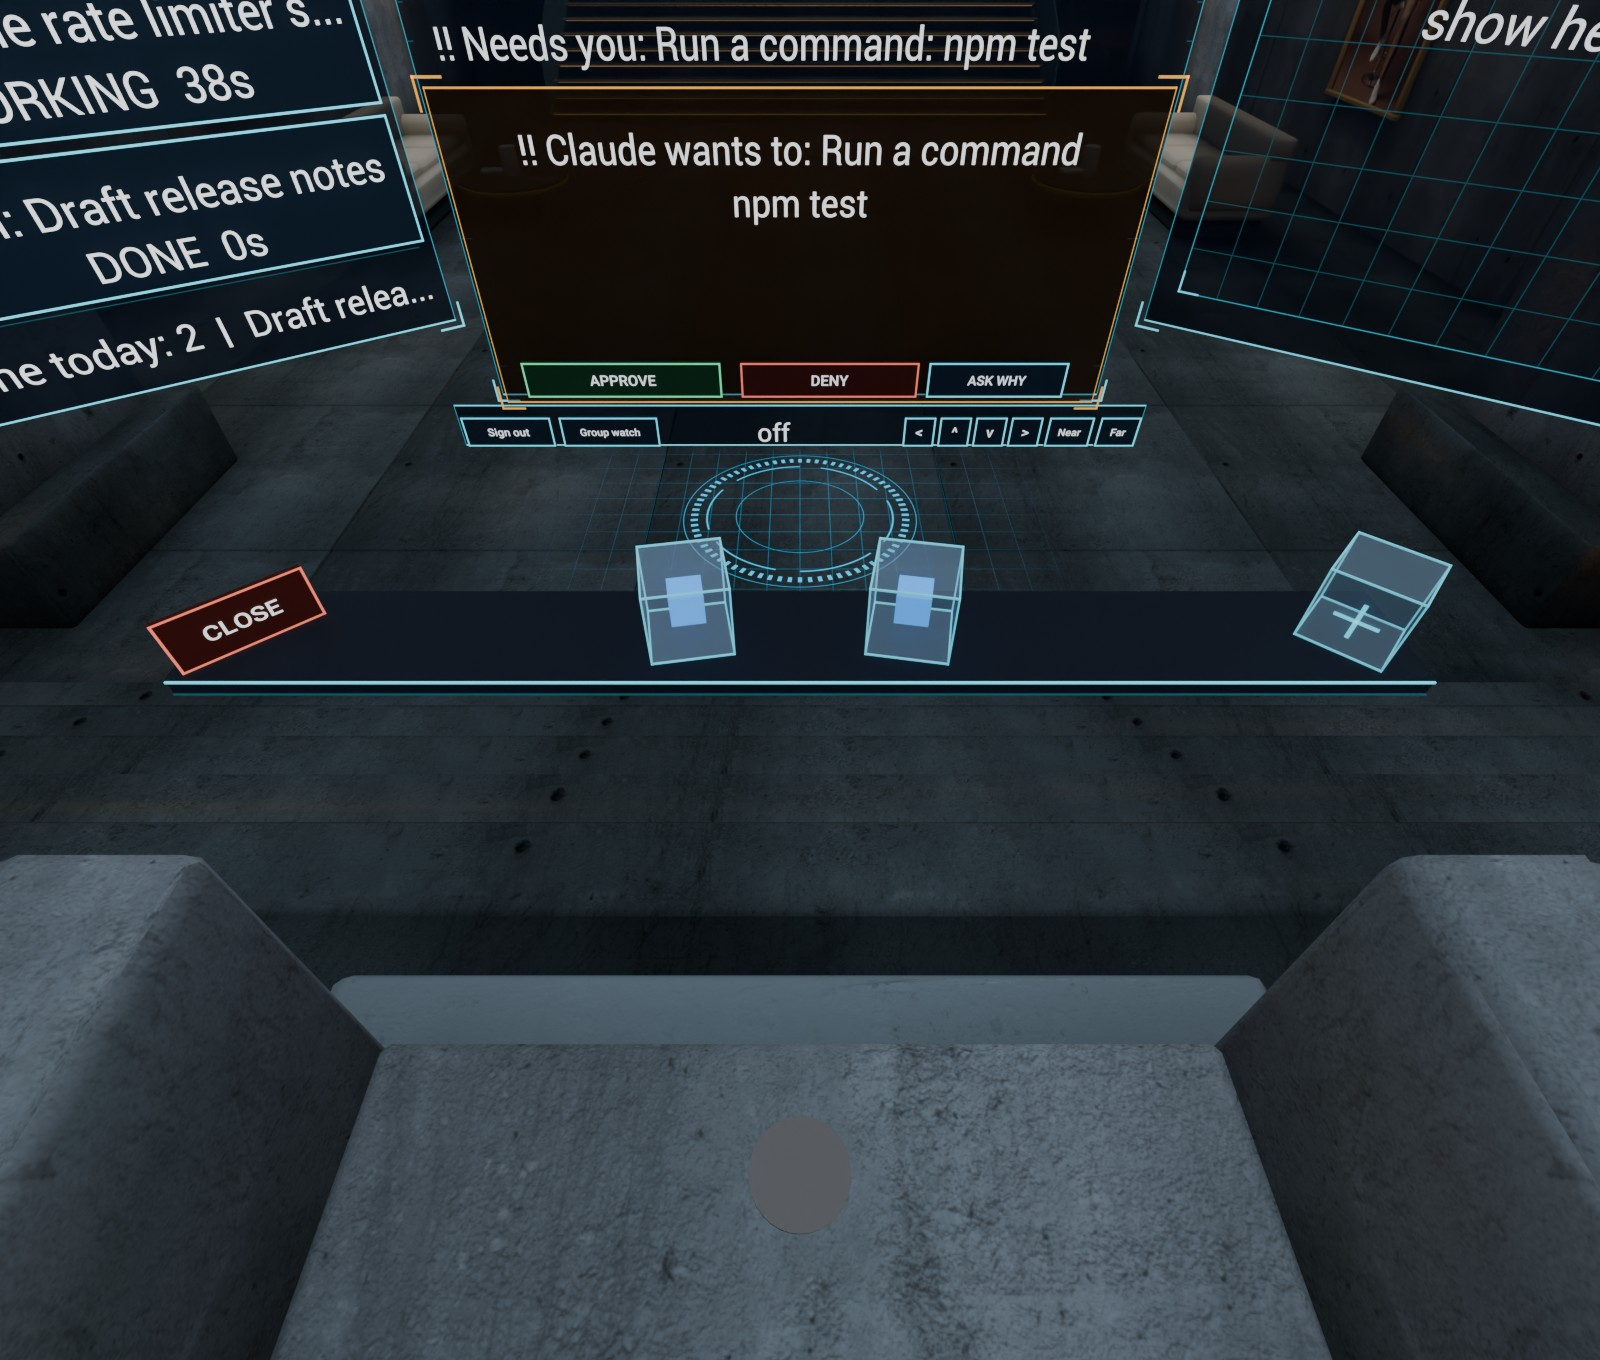
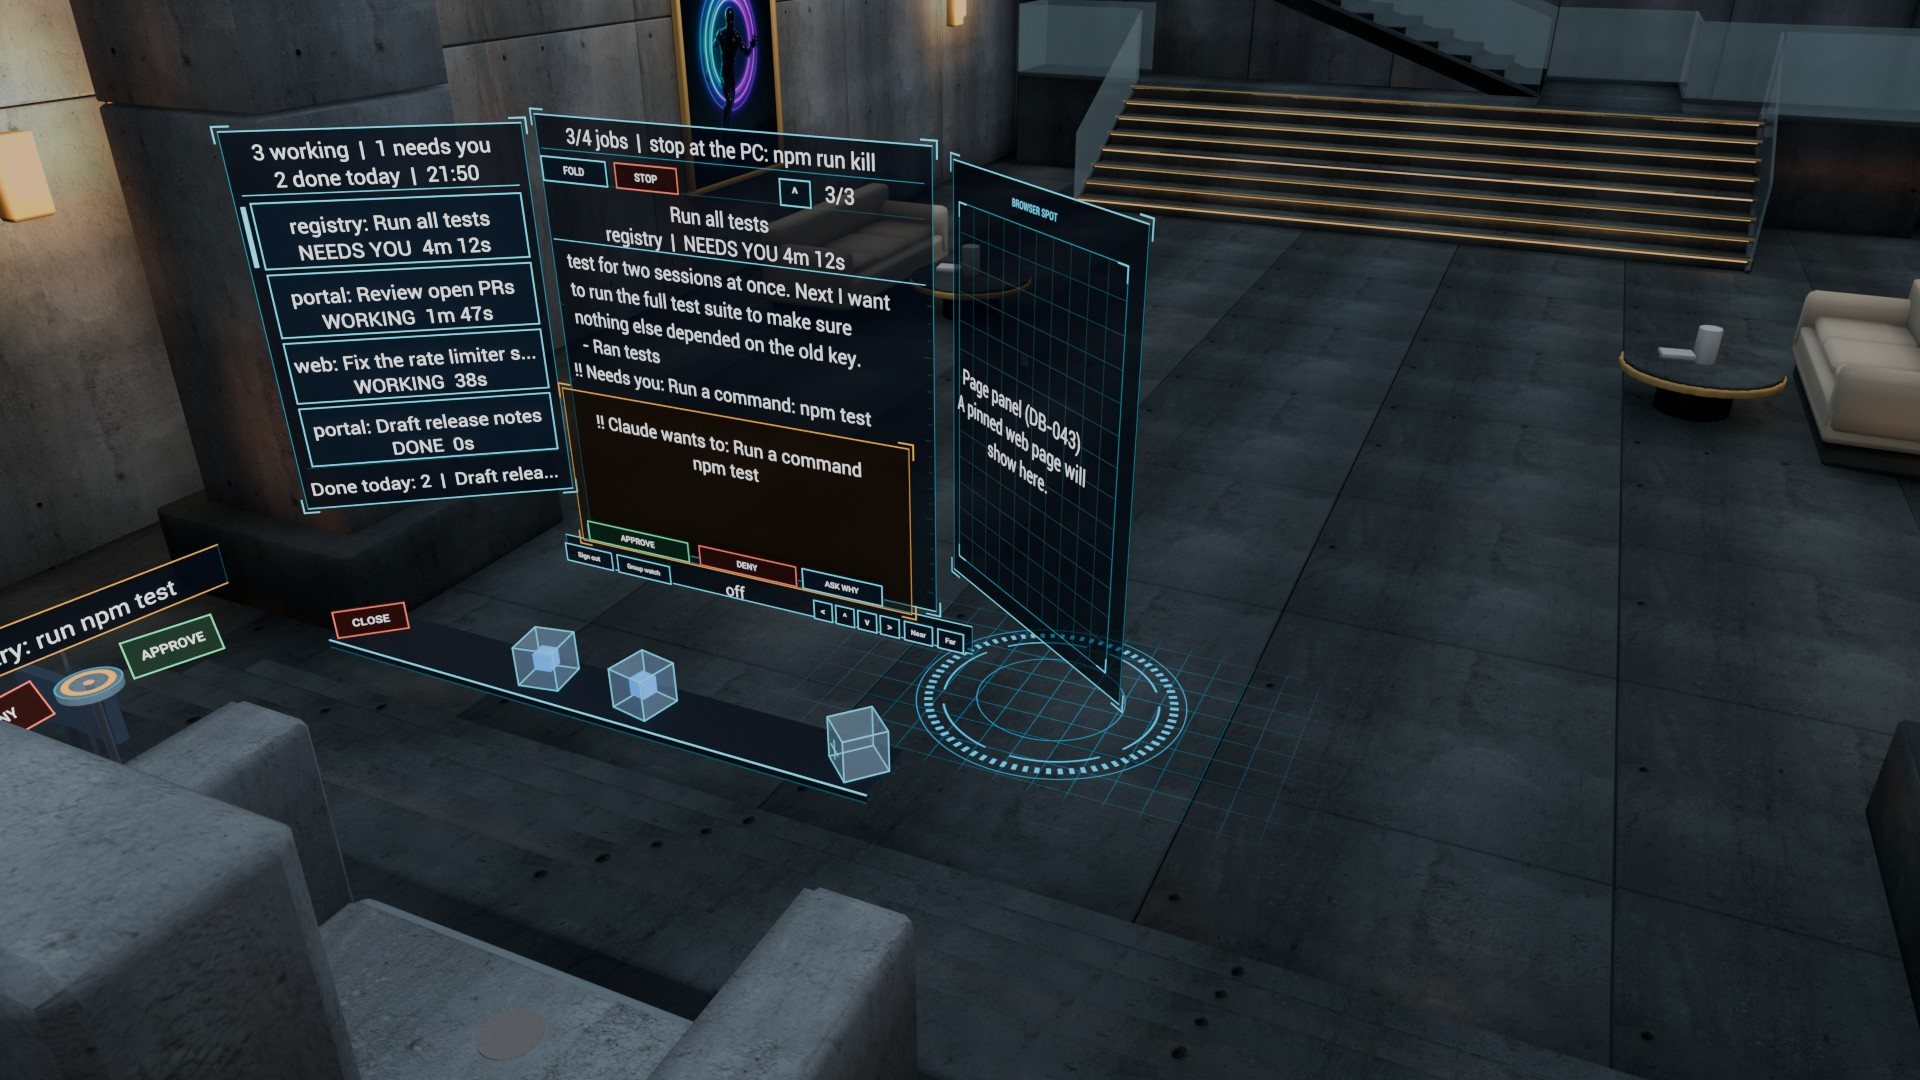
Mission Control v2: arc_floor review camera as an elevated three-quarter view
The tile that answers reference 2 now looks out from behind and above the throne,
a step to its right, over the floating arc to the projected floor ring on the hall
floor, instead of down past the stone seat. Review camera and sheet only: no
geometry, materials or lib.rs. art_sheet.jpg regenerated.

diff --git a/mission-control/blender/build_panel.py b/mission-control/blender/build_panel.py
@@ -1281,8 +1281,11 @@ def review():
     a = math.radians(LEFT[0])
     cam_arc_left = camera("CamArcLeft", eye, vpt(1.8 * math.cos(a), 1.8 * math.sin(a), 1.45), 90)
     cam_arc_right = camera("CamArcRight", eye, vpt(1.8 * math.cos(a), -1.8 * math.sin(a), 1.45), 90)
-    # The head tilted down: the ledge, the arc's foot and the projected floor ring.
-    cam_floor = camera("CamArcFloor", eye, vpt(1.25, 0, 0.35), 90)
+    # A review camera, not the owner's eye (reference 2 is shot this way): an elevated three-
+    # quarter view from behind and above the throne, a step to its right, looking out over the
+    # floating arc at its several depths to the projected floor ring in the hall below it.
+    cam_floor = camera("CamArcFloor", vpt(FLOOR_CAM[0], FLOOR_CAM[1], FLOOR_CAM[2]),
+                       vpt(FLOOR_LOOK[0], FLOOR_LOOK[1], FLOOR_LOOK[2]), FLOOR_CAM_FOV)
     pivot_x = STAND[0] - CENTER[1]
     cam_watch = camera("CamWatcher", (pivot_x - 3.2, 0.0, 1.66), (pivot_x, 0.0, 1.5), 80)
 
@@ -1299,7 +1302,7 @@ def review():
     render(cam_arc, "arc.jpg", eye=True)
     render(cam_arc_left, "arc_left.jpg", eye=True)
     render(cam_arc_right, "arc_right.jpg", eye=True)
-    render(cam_floor, "arc_floor.jpg", eye=True)
+    render(cam_floor, "arc_floor.jpg")
     apply_view(["arc"], arc_e=0.5, picked="CubeA")
     render(cam_arc, "arc_unfolding.jpg", eye=True)
     clear_review()
@@ -1311,6 +1314,10 @@ def review():
     art_sheet()
 
 
+# The arc_floor review camera (viewer frame): behind and above the throne, a step to the side.
+FLOOR_CAM = (-1.5, -2.2, 2.8)
+FLOOR_LOOK = (3.0, -0.15, 0.35)
+FLOOR_CAM_FOV = 72
 REFS = os.environ.get("MC_REFS", "E:/wt/work-in-vr-design/references")
 
 

diff --git a/mission-control/README.md b/mission-control/README.md
@@ -202,7 +202,7 @@ not pixels**: the device checkpoint is the real check.
 | `arc_left.jpg` | the head turned to the left panel: ticker, four rails, done |
 | `arc_right.jpg` | the head turned to the right panel: the browser spot |
 | `arc_unfolding.jpg` | the arc half way out of its cube (no words yet) |
-| `arc_floor.jpg` | from the eye, looking down past the ask plate: the projected floor ring and grid under the arc, between the chrome bar and the ledge |
+| `arc_floor.jpg` | a review camera, not the owner's eye: an elevated three-quarter view from behind and above the throne, a step to its right, over the floating arc at its several depths to the projected floor ring on the hall floor (how reference 2 is shot) |
 | `watcher.jpg` | a watcher's copy from the hall: the arc only, turned and lowered, no action buttons |
 | `art_sheet.jpg` | the look check: CEO reference 1 (the glass wall) beside `arc.jpg` and `seal_ring.jpg`; reference 2 (the floating panels) beside `arc_floor.jpg` and `watcher.jpg` |
 
